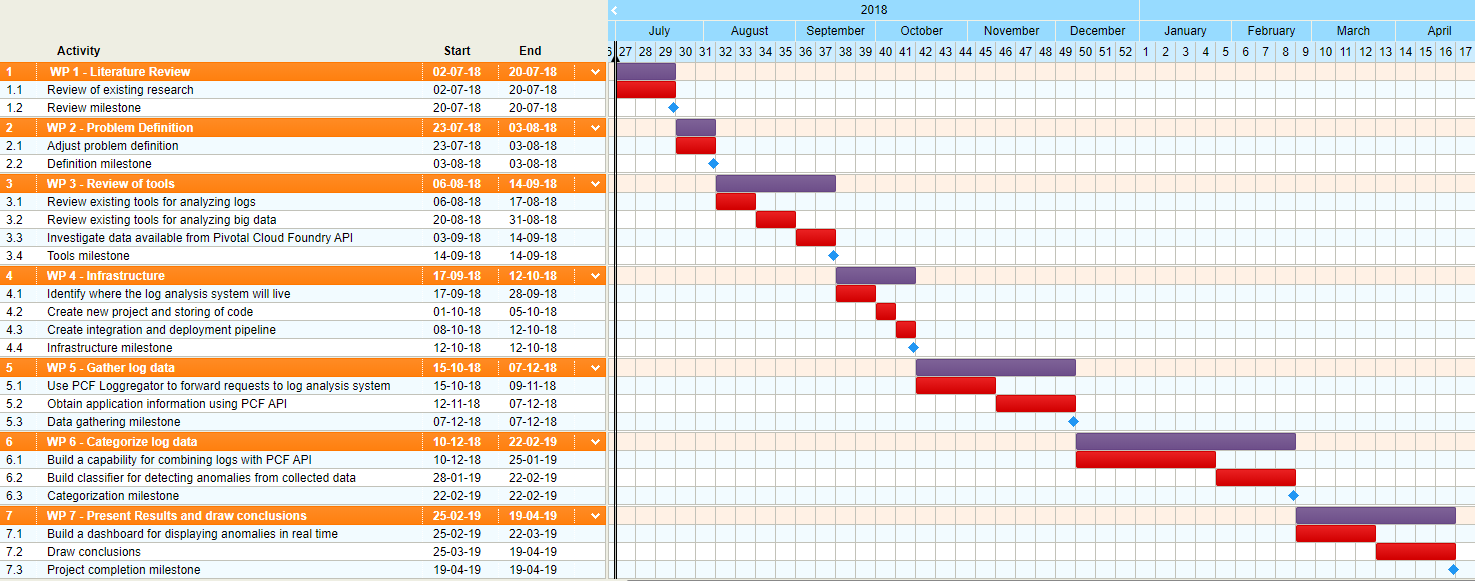
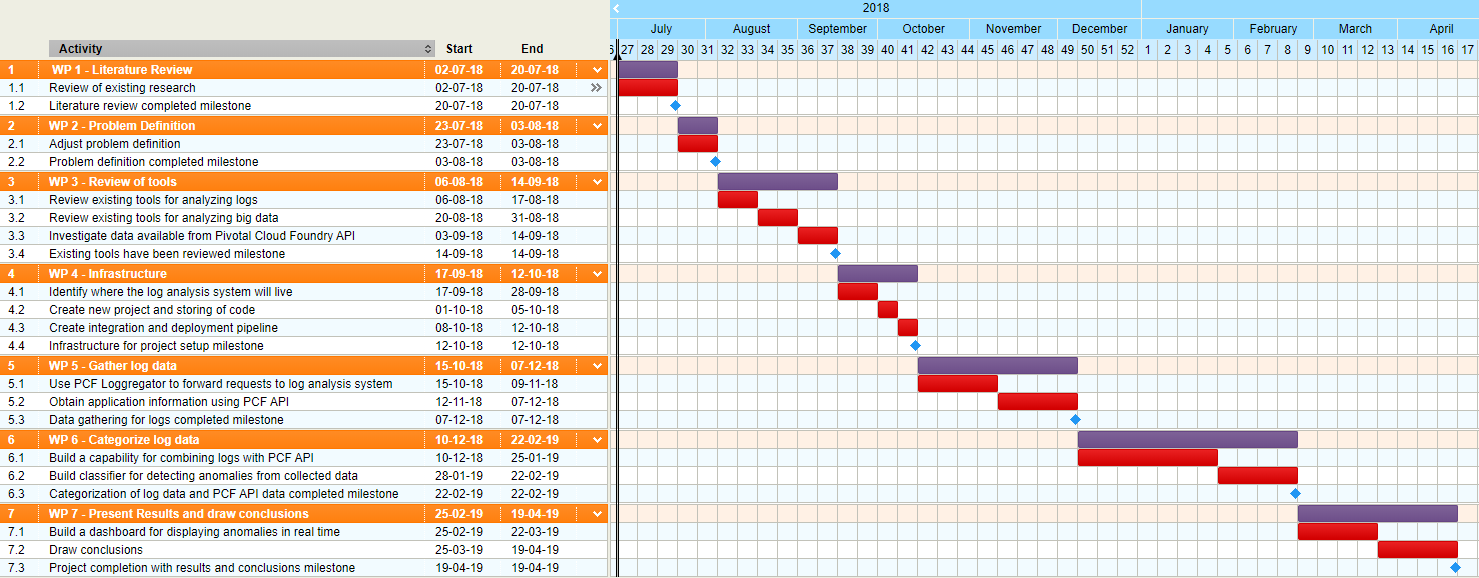
Grammarly abstract

diff --git a/Chapters/ResearchContext.tex b/Chapters/ResearchContext.tex
@@ -1,7 +1,7 @@
 \begin{abstract}
 Microservices are currently the hot new technology for the web, they allow us to break up our otherwise monolithic architecture into much smaller more focused services. This has a lot of benefits, such as reducing system size and increasing release frequency and agility. 
 
-Microservices are not without their flaws. For example, When a particular microservice crashes it can be difficult and time consuming to find the root cause. Typically a developer would start their analysis by checking the logs of the failed service. This can be a lengthy process and potentially lead to a misdiagnoses. The reason is that the developer is not seeing the full picture. For example, the failure on service A could be a direct result of a problem that originated on service B. It is also possible that the root cause could be concealing itself in some convoluted log message that a typical developer could misinterpret. Due to the nature of microservices encouraging continuous deployment it is also possible that a crash was as a direct result of a service deployment at a particular point in time. 
+Microservices are not without their flaws. For example, When a particular microservice crashes it can be difficult and time-consuming to find the root cause. Typically a developer would start their analysis by checking the logs of the failed service. This can be a lengthy process and potentially lead to misdiagnoses. The reason is that the developer is not seeing the full picture. For example, the failure on service A could be a direct result of a problem that originated on service B. It is also possible that the root cause could be concealing itself in some convoluted log message that a typical developer could misinterpret. Due to the nature of microservices encouraging continuous deployment it is also possible that a crash was as a direct result of a service deployment at a particular point in time. 
 
 This paper will focus mainly on root cause analysis of microservices deployed to a popular PaaS called Pivotal Cloud Foundry.
 
@@ -14,10 +14,10 @@ Root cause analysis of systems can be a complex task. The emergence of distribut
 
 There has been a lot of research on the topic of log analysis. Most argue that this is firmly a big data problem and tools such as Apache Spark\cite{8067504} or Apache Kafka\cite{adamson2014combined} would be required to allow for a real time analysis. Machine learning has also been put forward as a method for detecting anomalies in systems. An anomaly detection system for Web log files has been proposed. This system adopts a two-level machine learning algorithm, the decision tree algorithm and HMM, which can detect anomalous data and spot unknown attacks\cite{8322600}.
 
-While log analysis is an effective tool for RCA, there are some events that are hard to capture. For instance they do rely a lot on the fact the services log meaningful messages, its not entirely infeasible that a service may log nothing at all. It is also hard to detect from the logs the exact state of the service at any given time, such as memory capacity and CPU usage. Microservices encourage rapid continuous deployments\cite{villamizar2015evaluating}. A deployment could be viewed as a planned killing of a service and replaced with the new service. Log analysis tools may be tricked in this instance and incorrectly report that a service has crashed. 
+While log analysis is an effective tool for RCA, there are some events that are hard to capture from the log alone. For instance they do rely a lot on the fact the service logs contain meaningful messages, its not entirely infeasible that a service may log nothing at all. It is also hard to detect from the logs the exact state of the service at any given time, such as memory capacity and CPU usage. Microservices encourage rapid continuous deployments\cite{villamizar2015evaluating}. A deployment could be viewed as a planned killing of a service and replaced with the new service. Log analysis tools may be tricked in this instance and incorrectly report that a service has crashed. 
 
 Pivotal Cloud Foundry\cite{6924673} (PCF) has become a popular platform as a service (PaaS) over the last few years. It makes working with microservices much easier with features including zero downtime blue/green deployments, auto-scaling and access to a multitude of third-party services like MySQL and RabbitMQ.
 
 Cloud Foundry has a rich public API which can give us a lot of extra data on the state of our environment, for example it is possible to get the language a service was written in by interrogating build-pack types, if we know the language it may make log analysis easier as, we can, in theory, apply a more targeted set of rules to our analysis for that specific language. PCF can also give us current memory and disk space usage of deployed applications as well as events that took place within a certain time-frame such as starting, stopping or crashing. With PCF it is also possible to send logs from any service to any user configured location. This is know as the logregator\cite{winn2017cloud}
 
-Combining log analysis with Cloud Foundry rich API could eliminate some of the potential pitfalls of log analysis only solutions. 
+Combining log analysis with Cloud Foundry's rich API could eliminate some of the potential pitfalls of log analysis only solutions. 

diff --git a/Chapters/WorkPlan.tex b/Chapters/WorkPlan.tex
@@ -1,10 +1,26 @@
 \chapter{Work Plan}
 \lhead{\emph{Work Plan}}
 
-\begin{figure}[h!]
+\begin{figure}[ht]
   \centering
   \includegraphics[width=1.0\textwidth]{./figures/gantt.png}
-  \caption{gantt}
+  \caption{Gantt chart for project schedule}
+  \label{fig:gantt}
+\end{figure}
+
+\begin{figure}[ht]
+  \centering
+  \includegraphics[width=1.0\textwidth]{./figures/gantt-small-top.png}
+  \caption{Upper half of Gantt chart zoomed in for readability}
+  \label{fig:gantt}
+\end{figure}
+
+\clearpage
+
+\begin{figure}[ht]
+  \centering
+  \includegraphics[width=1.0\textwidth]{./figures/gantt-small-bottom.png}
+  \caption{Lower half of Gantt chart zoomed in for readability}
   \label{fig:gantt}
 \end{figure}
 
